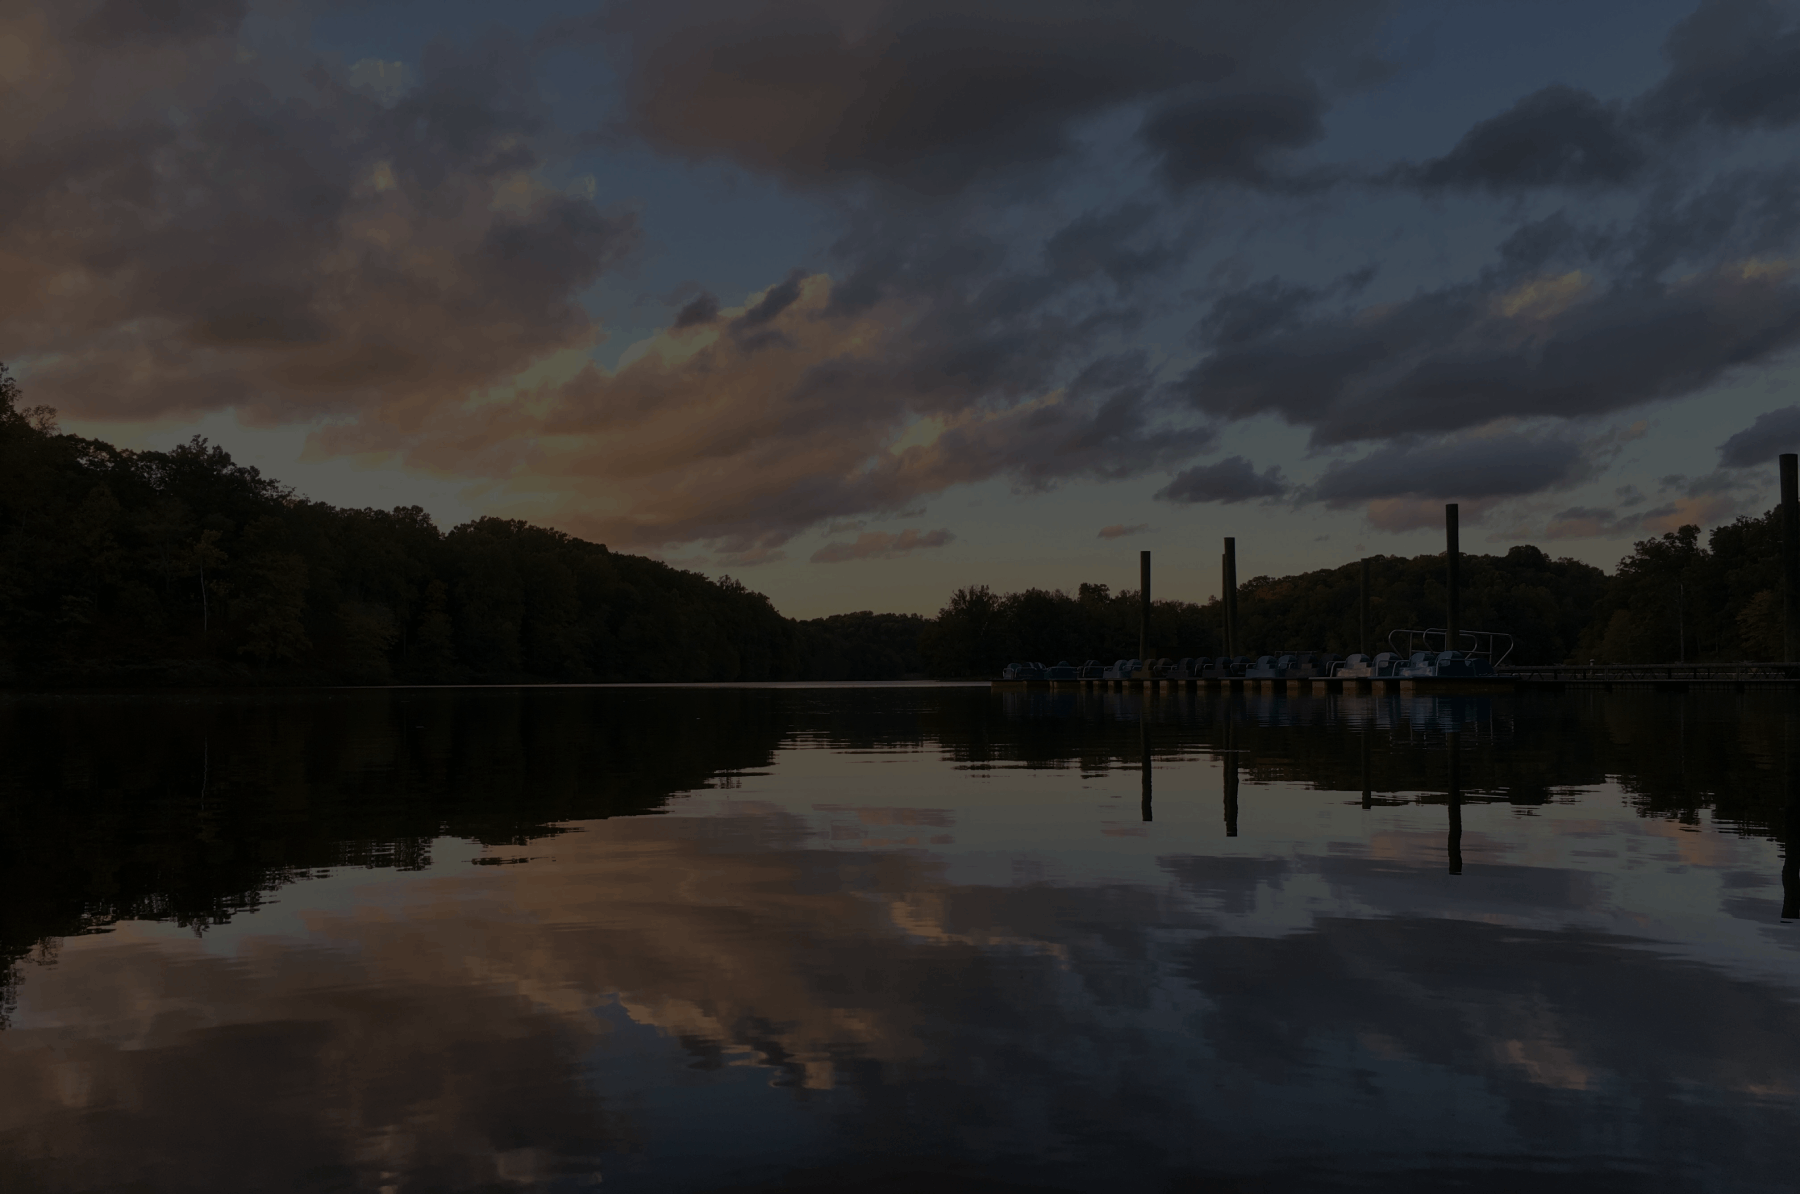
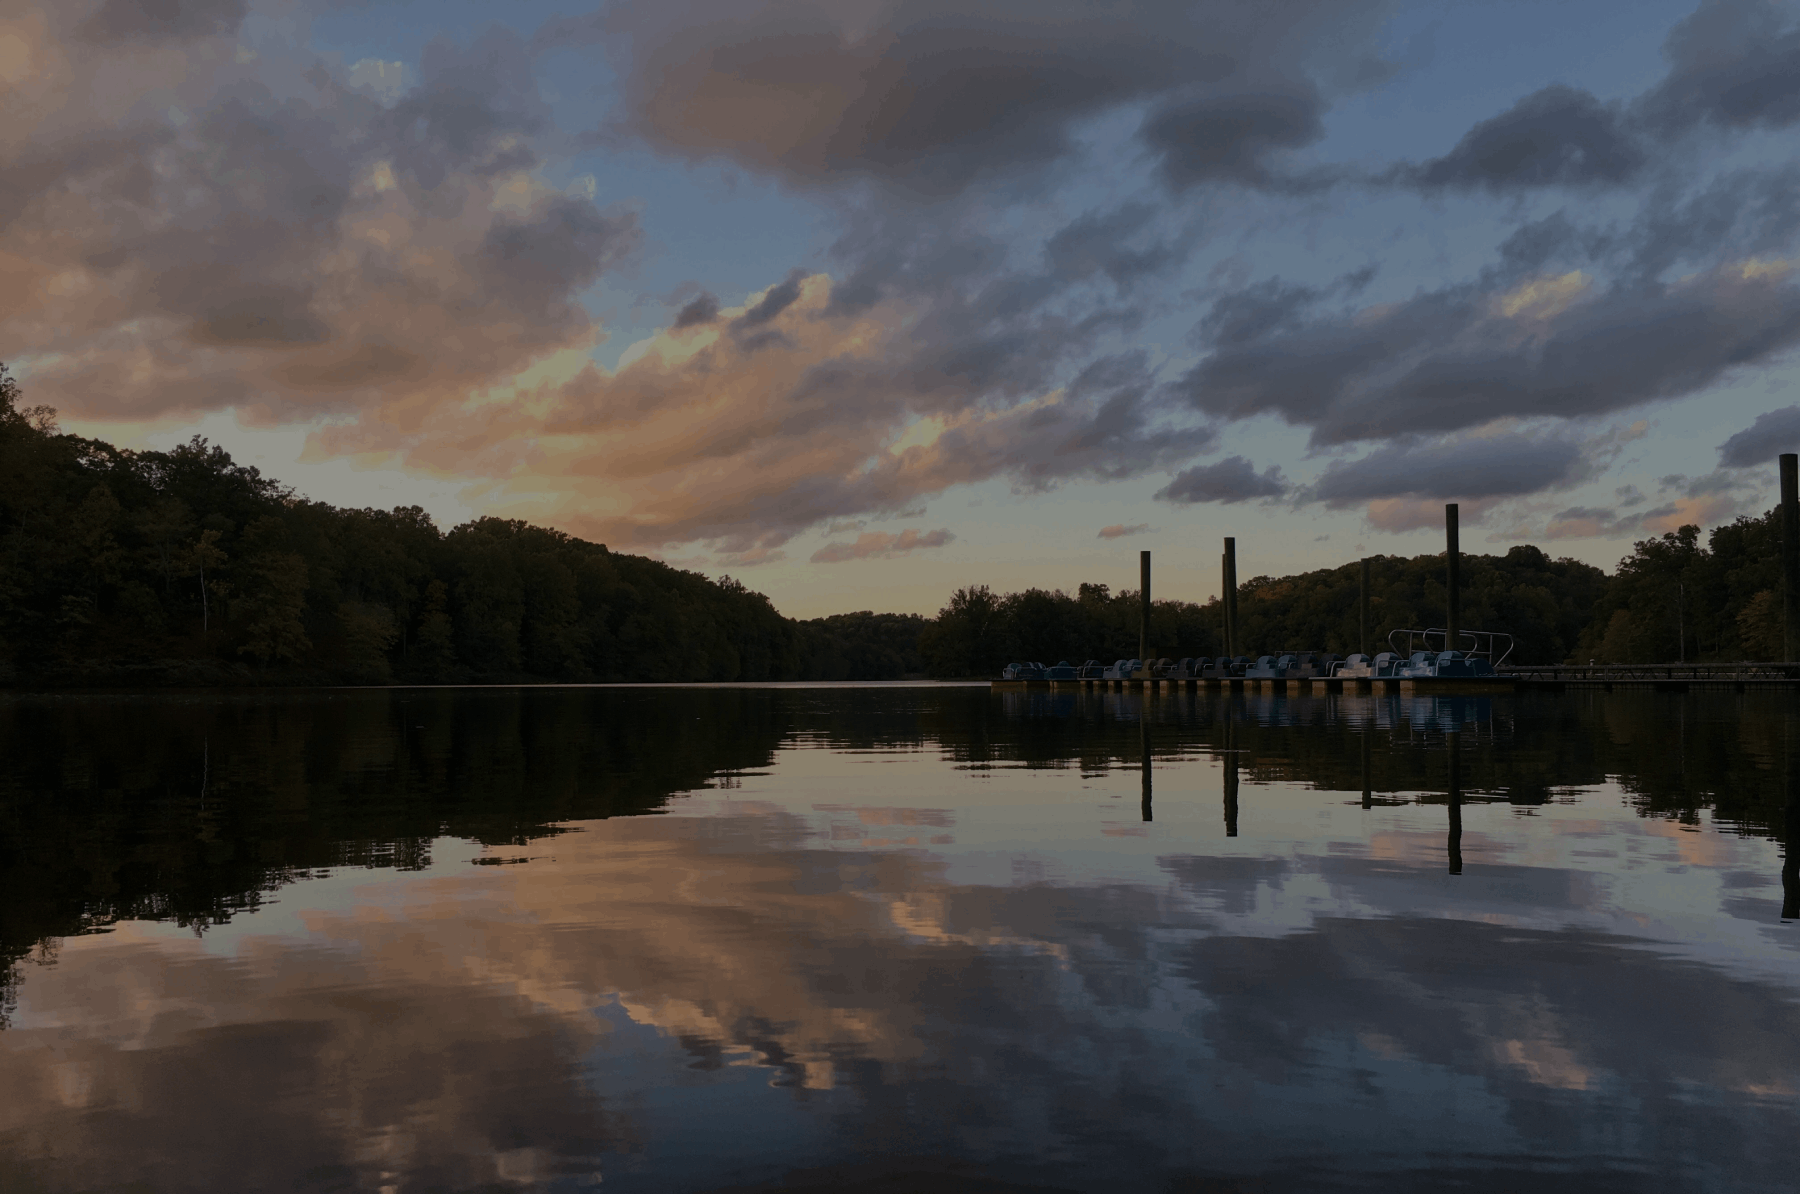
comments

diff --git a/pyphotoshop/transform_empty.py b/pyphotoshop/transform_empty.py
@@ -84,20 +84,26 @@ if __name__ == '__main__':
     lake = Image(filename='lake.png')
     city = Image(filename='city.png')
 
-    brighten_im = adjust_brightness(lake, 1.7)
-    brighten_im.write_image('brightened.png')
+    # brightening
+    brightened_im = brighten(lake, 1.7)
+    brightened_im.write_image('brightened.png')
 
-    darkened_img = adjust_brightness(lake, 0.1)
-    darkened_img.write_image("darkened.png ")
+    # darkening
+    darkened_im = brighten(lake, 0.3)
+    darkened_im.write_image('darkened.png')
 
+    # increase contrast
     incr_contrast = adjust_contrast(lake, 2, 0.5)
-    incr_contrast.write_image("incr-contrast.png")
+    incr_contrast.write_image('increased_contrast.png')
 
-    decr_contrast = adjust_contrast(lake, 0.25, 0.5)
-    decr_contrast.write_image("incr-contrast.png")
+    # decrease contrast
+    decr_contrast = adjust_contrast(lake, 0.5, 0.5)
+    decr_contrast.write_image('decreased_contrast.png')
 
+    # blur using kernel 3
     blur_3 = blur(city, 3)
-    blur_3.write_image("blue_3_city.png")
+    blur_3.write_image('blur_k3.png')
 
+    # blur using kernel size of 15
     blur_15 = blur(city, 15)
-    blur_15.write_image("blue_15_city.png")
+    blur_15.write_image('blur_k15.png')
